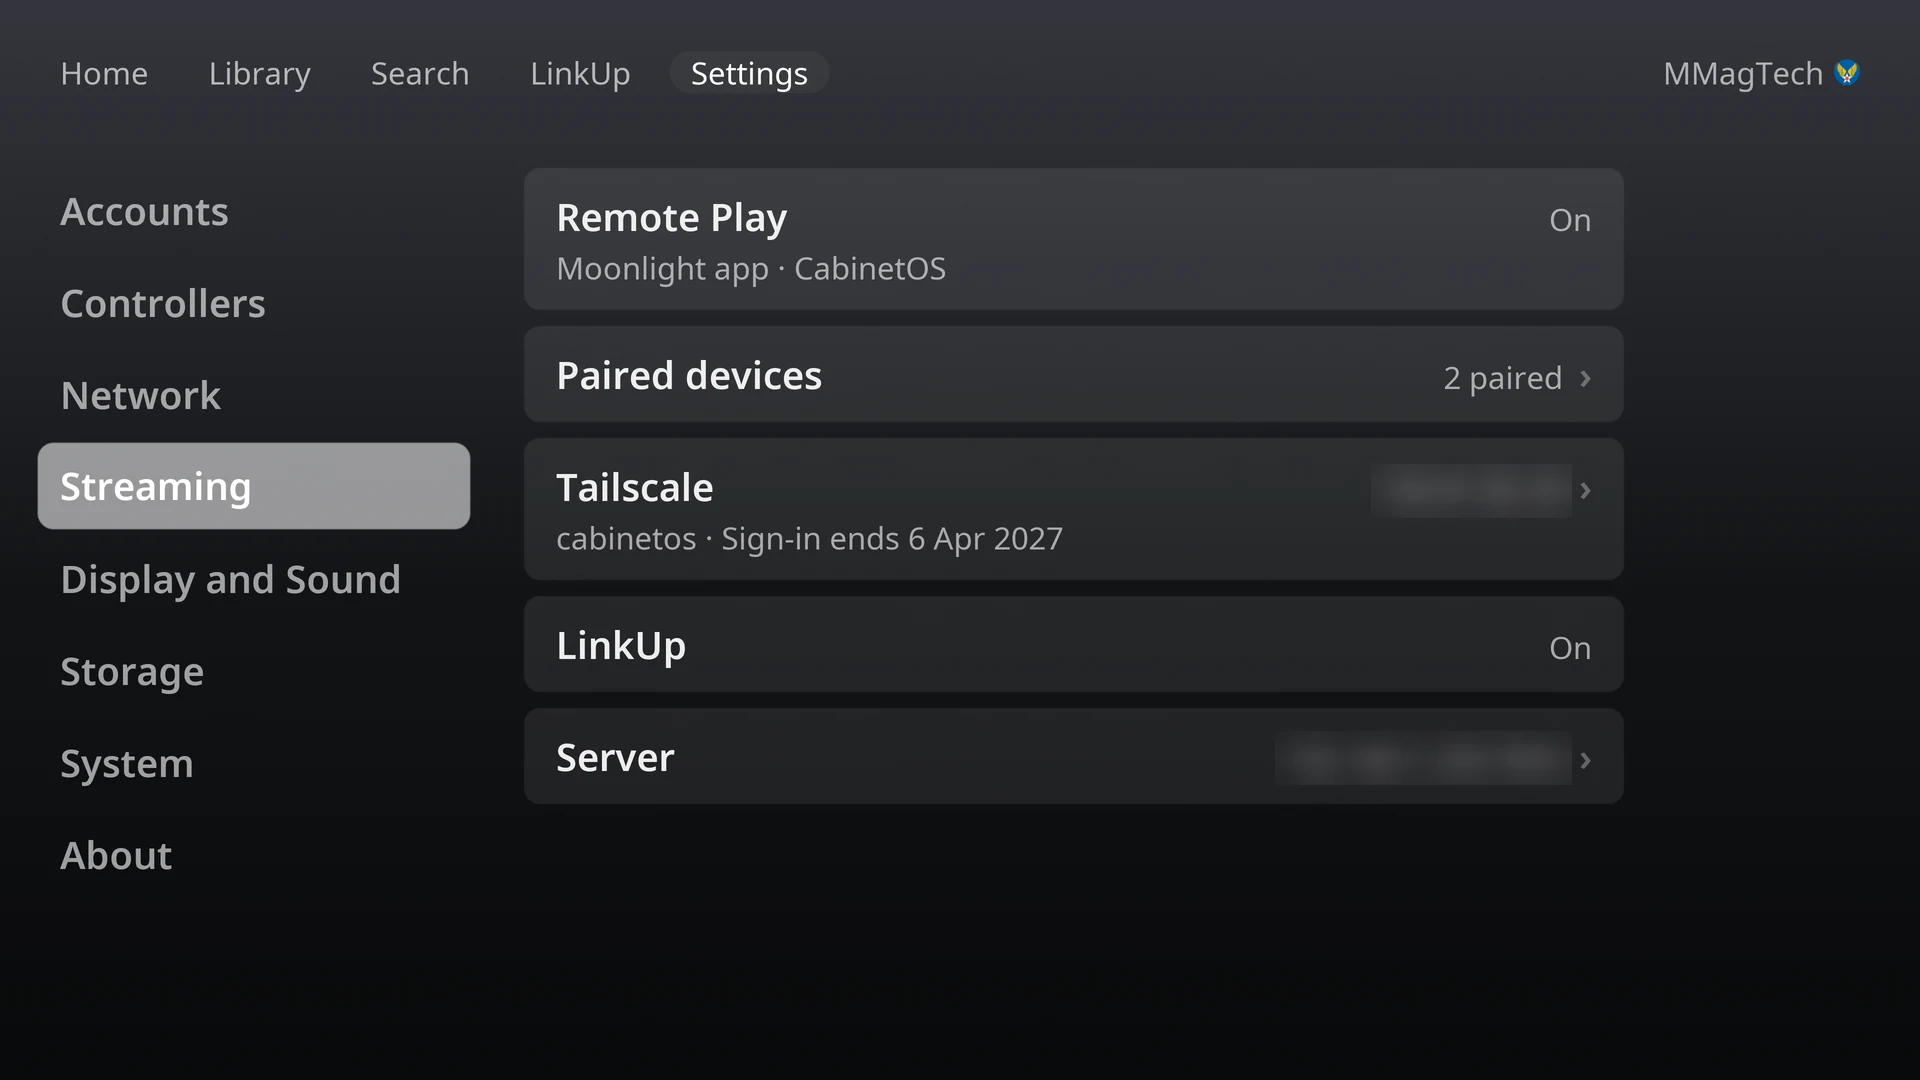
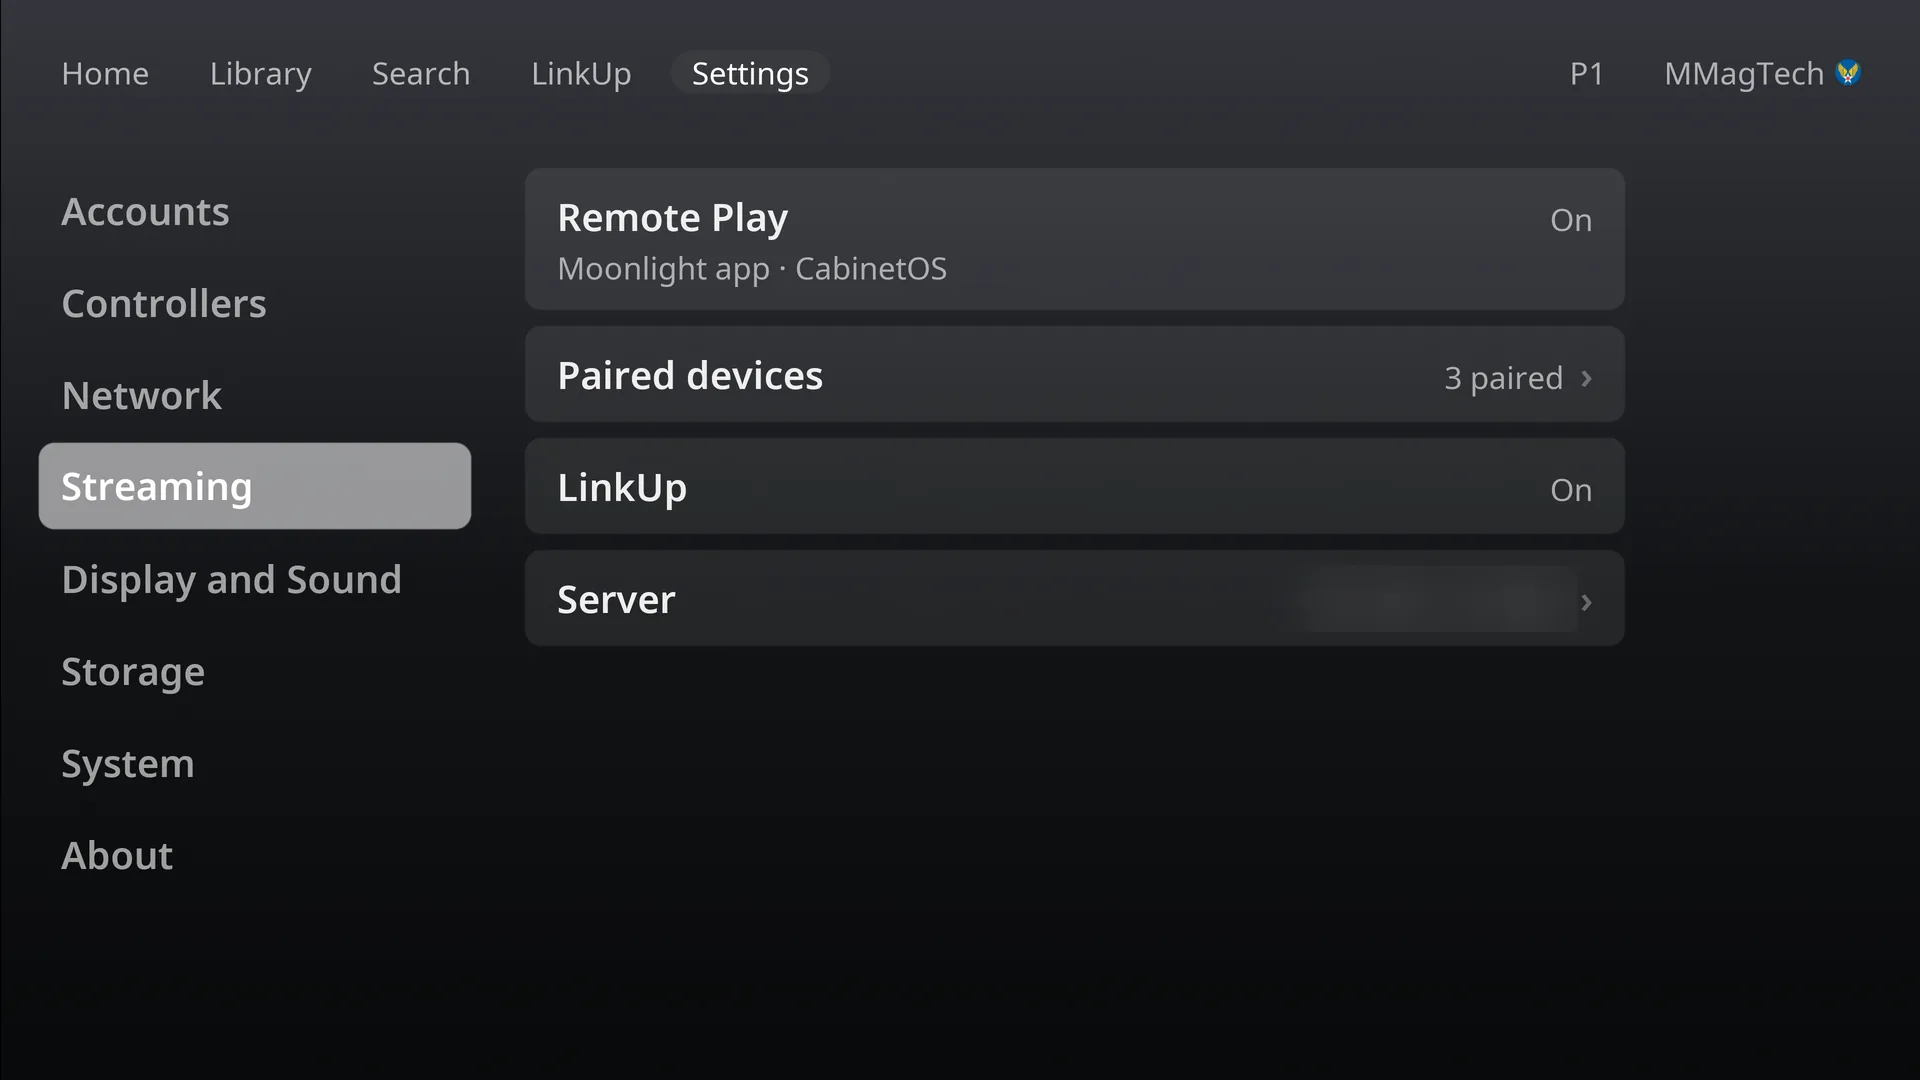
The Network and Streaming pictures show Tailscale in Network
docs/media/settings-network.webp still showed October's Network page (its
side list said Remote Play), and settings-remoteplay.webp showed a Tailscale
row in Streaming. Both retaken on the reference console with this pull
request's build: Network with Tailscale signed in, Streaming with Remote
Play on, three paired devices and LinkUp on. 1920x1080 like the others, with
every address and network name blurred (Status, the RomM server, Wi-Fi,
Tailscale's address, LinkUp's server); the raw captures were deleted on the
console. The captions say what each shows now.

diff --git a/docs/index.html b/docs/index.html
@@ -137,7 +137,7 @@
       </div>
 
       <div class="feature flip">
-        <div class="media"><img src="media/settings-remoteplay.webp" alt="Streaming in Settings: Remote Play on, two paired devices, Tailscale signed in, and LinkUp on" loading="lazy"></div>
+        <div class="media"><img src="media/settings-remoteplay.webp" alt="Streaming in Settings: Remote Play on, three paired devices, and LinkUp on" loading="lazy"></div>
         <div>
           <h3>Play from your phone, at home or away</h3>
           <p>Turn on Remote Play and the whole console streams to Moonlight on a phone, tablet or computer. Your phone's controller becomes player one.</p>

diff --git a/docs/wiki/network.md b/docs/wiki/network.md
@@ -1,6 +1,6 @@
 # Wi-Fi and network
 
-![Network in Settings](../media/settings-network.webp)
+![Network in Settings, with Tailscale signed in](../media/settings-network.webp)
 
 Settings, **Network** shows how the console is connected, its address, your
 RomM server, Wi-Fi and Tailscale.
